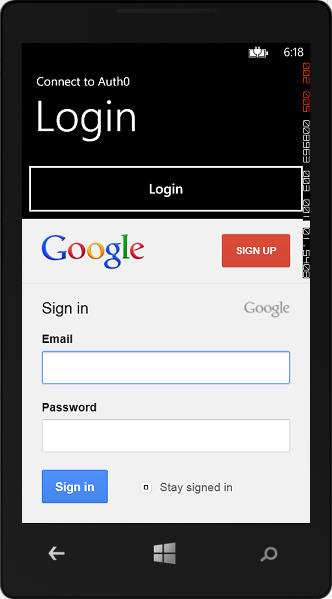
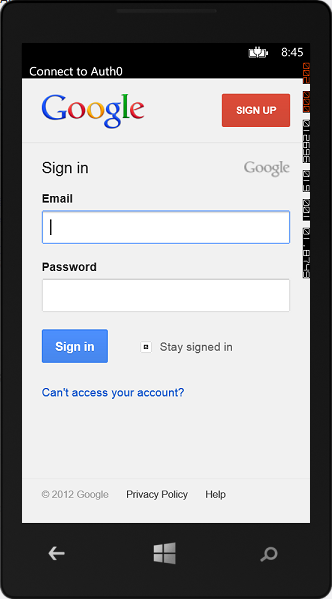
Updated WinPhone8 Demo with widget and no login button

diff --git a/docs/windowsphone-tutorial.md b/docs/windowsphone-tutorial.md
@@ -25,34 +25,29 @@ Open Visual Studio and create new Windows Phone app:
 ####2. Add UI controls
 Open the __MainPage.xaml__ file and replace the entire `<Grid>` definition with this one:
 
-	<Grid x:Name="LayoutRoot" Background="Transparent">
+    <Grid x:Name="LayoutRoot" Background="Transparent">
         <Grid.RowDefinitions>
             <RowDefinition Height="Auto"/>
-            <RowDefinition Height="100"/>
             <RowDefinition Height="*"/>
         </Grid.RowDefinitions>
-        <StackPanel x:Name="TitlePanel" Grid.Row="0" Margin="12,17,0,28">
-            <TextBlock Text="Connect to Auth0" Style="{StaticResource PhoneTextNormalStyle}" Margin="12,0"/>
-            <TextBlock Text="Login" Margin="9,-7,0,0" Style="{StaticResource PhoneTextTitle1Style}"/>
-        </StackPanel>
-        <Button x:Name="Login" Grid.Row="1" Content="Login" Click="Login_Click" />
-        <Grid x:Name="ContentPanel" Grid.Row="2">
-            <phone:WebBrowser x:Name="LoginBrowser" Grid.Row="0" Grid.RowSpan="2" IsEnabled="true" IsScriptEnabled="True" />
+        <TextBlock Text="Connect to Auth0" Grid.Row="0" Style="{StaticResource PhoneTextNormalStyle}" Margin="12,0"/>
+        <Grid x:Name="ContentPanel" Grid.Row="1">
+            <phone:WebBrowser x:Name="LoginBrowser" Grid.Row="0" Grid.RowSpan="2" IsEnabled="true" IsScriptEnabled="True"/>
             <TextBlock x:Name="UserInfo" Grid.Row="1" Grid.RowSpan="2" Visibility="Collapsed" TextWrapping="Wrap"/>
         </Grid>
     </Grid>
 
 ####2. Add code to initiate Authentication and retrieve User Profile
-Open the __MAinPage.xaml.cs__ file and replace the class definition with this one:
+Open the __MainPage.xaml.cs__ file and replace the class definition with this one:
 
-	public partial class MainPage : PhoneApplicationPage
+    public partial class MainPage : PhoneApplicationPage
     {
         private string AccessToken;
         private const string Auth0UserInfo = @"https://@@account.namespace@@/userinfo/?{0}";
         private const string Auth0Authorize = @"https://@@account.namespace@@/authorize/?client_id={0}&redirect_uri={1}&response_type=token&connection={2}";
 
         private const string RedirectUri = @"https://localhost/client";
-        private const string ClientId = @"@@account.clientId@@";
+        private const string ClientId = @"@@account.clientId";
         private const string Connection = @"MyNewConnection";
 
         // Constructor
@@ -60,6 +55,26 @@ Open the __MAinPage.xaml.cs__ file and replace the class definition with this on
         {
             InitializeComponent();
             this.LoginBrowser.Navigating += LoginBrowser_Navigating;
+            this.LoginBrowser.Loaded += LoginBrowser_Loaded;
+            this.UserInfo.Tap += UserInfo_Tap;
+        }
+
+        void UserInfo_Tap(object sender, System.Windows.Input.GestureEventArgs e)
+        {
+            Login();
+        }
+
+        void LoginBrowser_Loaded(object sender, RoutedEventArgs e)
+        {
+            Login();
+        }
+
+        void Login()
+        {
+            this.UserInfo.Visibility = System.Windows.Visibility.Collapsed;
+            this.LoginBrowser.Visibility = System.Windows.Visibility.Visible;
+            var auth0Endpoint = string.Format(Auth0Authorize, ClientId, RedirectUri, Connection);
+            this.LoginBrowser.Navigate(new Uri(auth0Endpoint));
         }
 
         void LoginBrowser_Navigating(object sender, NavigatingEventArgs e)
@@ -90,21 +105,13 @@ Open the __MAinPage.xaml.cs__ file and replace the class definition with this on
         {
             this.UserInfo.Text = e.Result;
         }
-
-        private void Login_Click(object sender, RoutedEventArgs e)
-        {
-            this.UserInfo.Visibility = System.Windows.Visibility.Collapsed;
-            this.LoginBrowser.Visibility = System.Windows.Visibility.Visible;
-            var auth0Endpoint = string.Format(Auth0Authorize, ClientId, RedirectUri, Connection);
-            this.LoginBrowser.Navigate(new Uri(auth0Endpoint));
-        }
     }
 
 > Remember that the 'callBackUrl' must be defined in your Auth0 [settings](https://app.auth0.com/#/settings). This sample uses __https://localhost/client__
 
 ## Testing the app:
 
-Compile the App and run it. Assuming your connection (__MyNewConnection__ in this turorial) is configured to use Google you will see the standard login screen:
+Compile the App and run it. Assuming your connection (__MyNewConnection__ in this tutorial) is configured to use Google you will see the standard login screen:
 
 ![](img/wp8-step3.png) 
 
@@ -123,9 +130,9 @@ In the code above, replace the `Auth0Authorize` URL to:
 
     private const string Auth0Authorize = @"https://@@account.namespace@@/authorize/?client={0}&response_type=token";
 
-Then the `Login_Click` event handler to:
+Then change the `Login` method to:
 
-    private void Login_Click(object sender, RoutedEventArgs e)
+    private void Login()
     {
         this.UserInfo.Visibility = System.Windows.Visibility.Collapsed;
         this.LoginBrowser.Visibility = System.Windows.Visibility.Visible;
@@ -133,7 +140,6 @@ Then the `Login_Click` event handler to:
         this.LoginBrowser.Navigate(new Uri(auth0Endpoint));
     }
 
-Run the app again, you will see:
+Run the app again, you will see [Auth0 Login Widget](widget) with available connections:
 
 ![](img/wp8-step5.png) 
-
